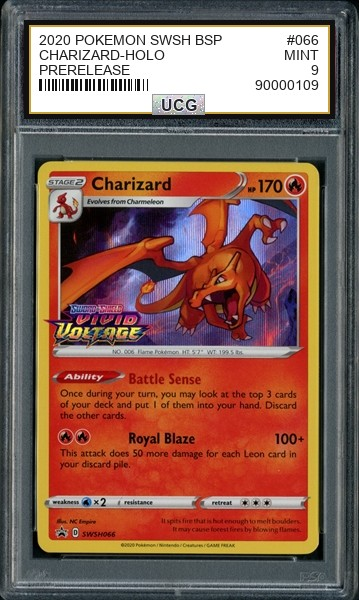
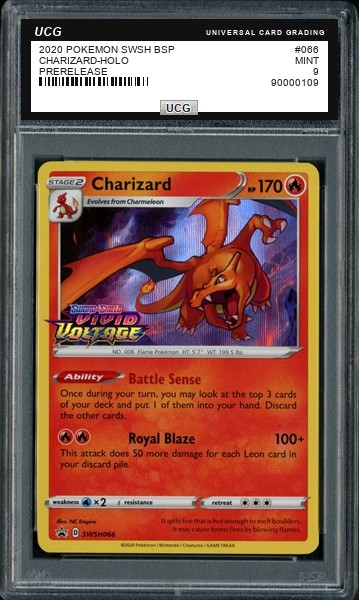
Labels match new design: UCG header bar, black & white, no gold (photos + admin)

Changed region(s): [[0.0613, 0.03, 0.9499, 0.21]]

diff --git a/admin.html b/admin.html
@@ -223,16 +223,24 @@ function draw() {
   const f = fields();
   ctx.drawImage(src, 0, 0, cv.width, cv.height);
   const { x0, y0, x1, y1, t } = box;
-  ctx.fillStyle = "#111"; ctx.fillRect(x0 - 4, y0 - 4, x1 - x0 + 8, y1 - y0 + 8);
-  const ix0 = x0 + t, iy0 = y0 + t, ix1 = x1 - t, iy1 = y1 - t, iw = ix1 - ix0, ih = iy1 - iy0;
-  ctx.fillStyle = "#c9a13b"; ctx.fillRect(ix0 - 2, iy0 - 2, iw + 4, ih + 4);
+  ctx.fillStyle = "#111"; ctx.fillRect(x0 - 7, y0 - 5, x1 - x0 + 14, y1 - y0 + 10);
+  const hh = Math.round((y1 - y0) * 3.6 / 19);   // header bar, same ratio as the printed label
+  const ix0 = x0 + t, iy0 = y0 + hh, ix1 = x1 - t, iy1 = y1 - t, iw = ix1 - ix0, ih = iy1 - iy0;
   ctx.fillStyle = "#fff"; ctx.fillRect(ix0, iy0, iw, ih);
+  const hcy = y0 + hh / 2, hp = (x1 - x0) * .012;
+  ctx.textBaseline = "middle"; ctx.fillStyle = "#fff";
+  ctx.font = `italic bold ${Math.max(7, Math.floor(hh * .72))}px Arial, Helvetica, sans-serif`;
+  ctx.textAlign = "left"; ctx.fillText("UCG", ix0 + hp, hcy);
+  ctx.font = `bold ${Math.max(6, Math.floor(hh * .46))}px Arial, Helvetica, sans-serif`;
+  if ("letterSpacing" in ctx) ctx.letterSpacing = `${Math.max(1, hh * .06)}px`;
+  ctx.textAlign = "right"; ctx.fillText("UNIVERSAL CARD GRADING", ix1 - hp, hcy);
+  if ("letterSpacing" in ctx) ctx.letterSpacing = "0px";
   const left = f.lines.length ? f.lines : ["YEAR AND SET", "CARD NAME"];
-  let size = Math.max(8, Math.floor(ih * .175));
+  let size = Math.max(8, Math.floor(ih * .155));
   const font = (s, b) => `${b ? "bold " : ""}${s}px Arial, Helvetica, sans-serif`;
   ctx.font = font(size);
   while (Math.max(...left.map(s => ctx.measureText(s).width)) > iw * .68 && size > 7) { size--; ctx.font = font(size); }
-  const pad = iw * .03, lh = Math.floor(size * 1.12), ty = iy0 + ih * .06;
+  const pad = iw * .03, lh = Math.floor(size * 1.12), ty = iy0 + ih * .04;
   ctx.fillStyle = "#1d1d1f"; ctx.textBaseline = "top";
   ctx.textAlign = "left"; left.forEach((s, i) => ctx.fillText(s, ix0 + pad, ty + i * lh));
   ctx.textAlign = "right"; [f.num || "#", f.gradeName, f.grade, f.cert || "CERT"].forEach((s, i) => ctx.fillText(s, ix1 - pad, ty + i * lh));
